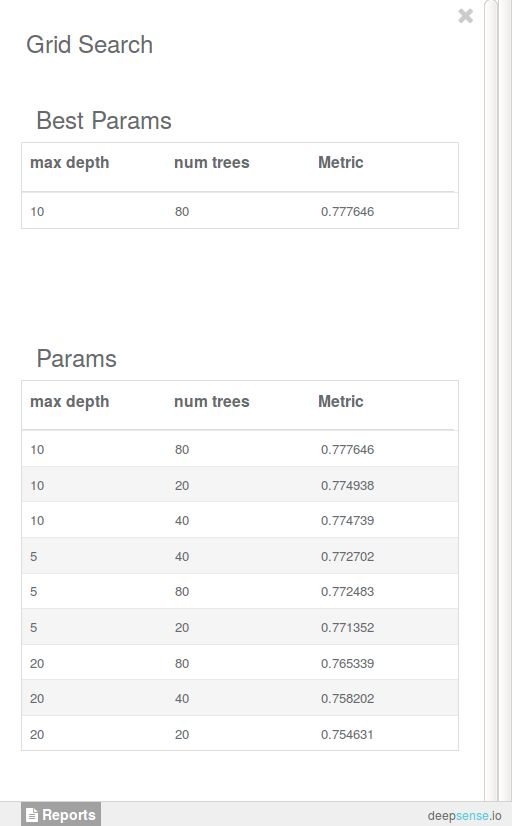
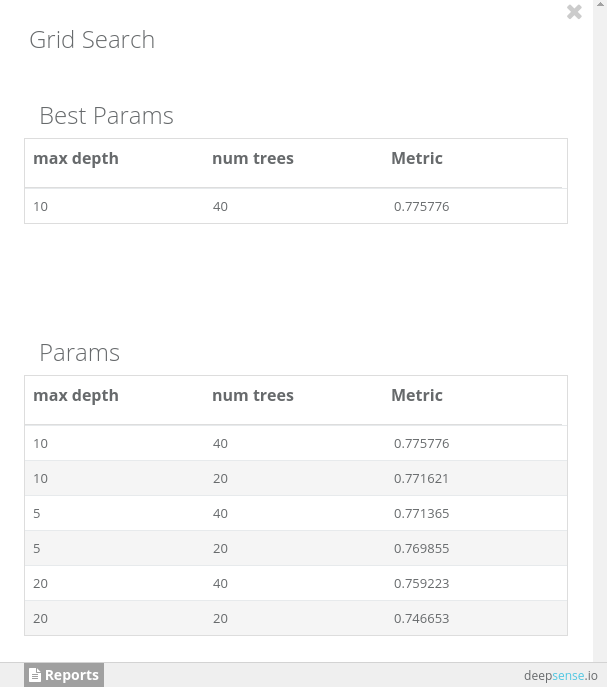
SHR-640 Reduce the execution time of Credit Cards Example

diff --git a/docs/_casestudies/credit_card_client_defaults.md b/docs/_casestudies/credit_card_client_defaults.md
@@ -87,17 +87,17 @@ as the evaluation metric. This metric is applicable when one class (label) domin
 It is more sensitive to retrieval of defaults in data [than accuracy score](https://www.quora.com/Why-is-it-that-I-get-a-better-accuracy-score-when-using-unbalanced-classes-with-a-Random-Forest-classifier)
 (that is, the number of correctly classified instances regardless of their actual class).
 
-For demonstration purposes, we varied the parameters of on a relatively small grid: 20, 40, 80 for the number of trees in the forest
+For demonstration purposes, we varied the parameters of on a relatively small grid: 20, 40 for the number of trees in the forest
 and 5, 10, 20 for a tree depth. The results of the grid search are presented below:
 
 <img class="bordered-image centered-image img-responsive spacer" src="../img/usecases/credit_defaults/grid_search_results.png">
 
-We see that the optimal values for the number of trees and a tree depth are 80 and 10, respectively. Since there is little difference
-between choosing 20, 40 or 80 as the number of trees, we will stick with the smallest (and a less complex) forest consisting of 20 trees as our final model.
+We see that the optimal values for the number of trees and a tree depth are 40 and 10, respectively. Since there is little difference
+between choosing 20 or 40 as the number of trees, we will stick with the smaller forest consisting of 20 trees as our final model.
 
 ### Verifying Model Effectiveness On Test Data
 
-Finally, we evaluate the model on the remaining 1/3 part of data. It achieves a score of 0.7795 AUC on this hold-out dataset.
+Finally, we evaluate the model on the remaining 1/3 part of data. It achieves a score of 0.779738 AUC on this hold-out dataset.
 This means that our model learned reasonably well to distinguish between default and non-default customers. For the sake of more interpretable results,
 the confusion matrix may be helpful. In order to compute it, we will create another R notebook and attach it to the final data with computed predictions.
 
